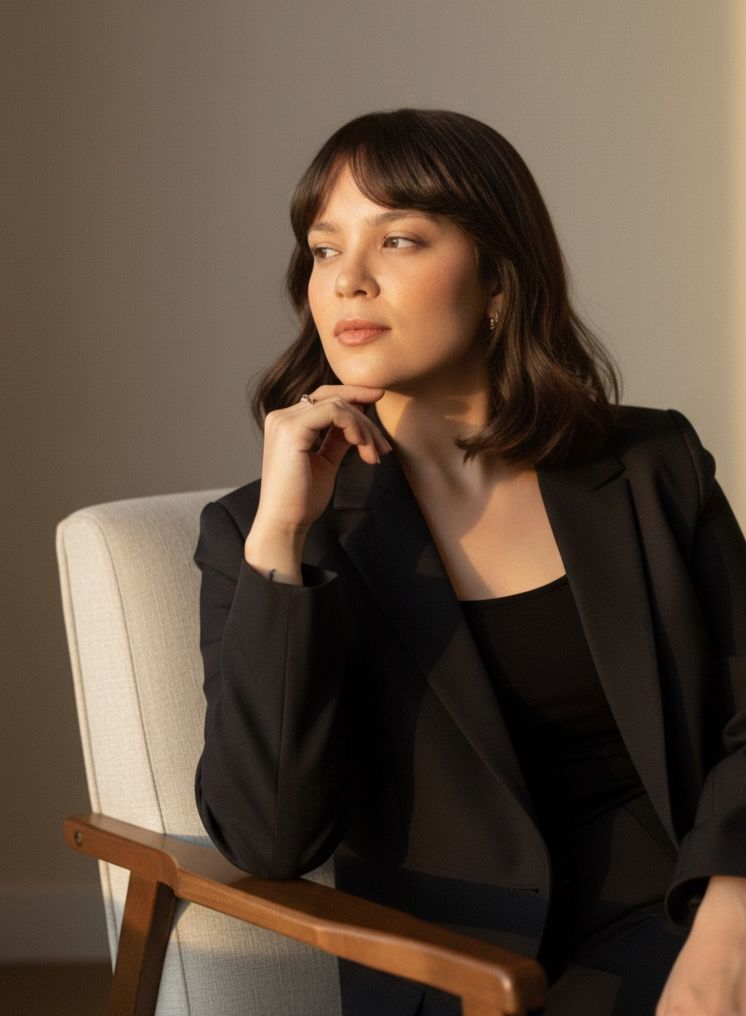
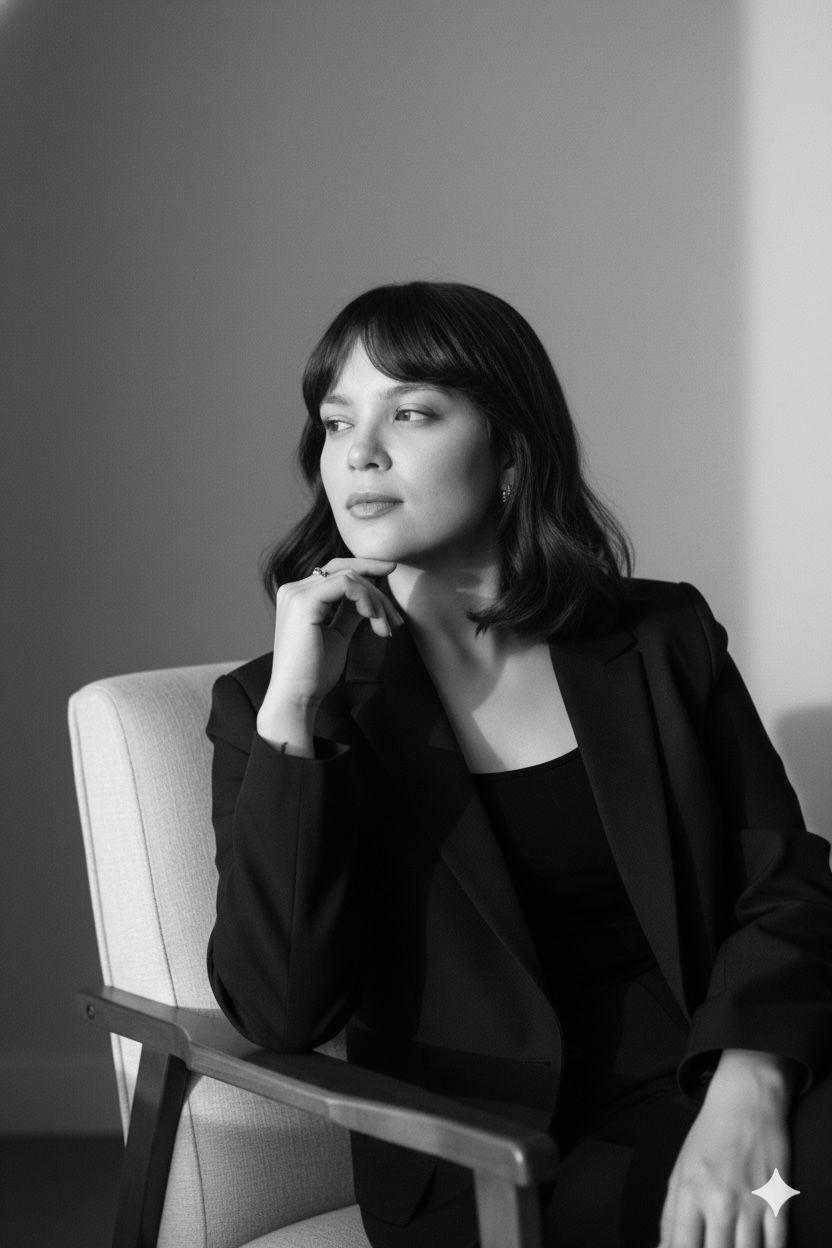
Atualização pagina inicial

diff --git a/index.html b/index.html
@@ -358,17 +358,16 @@
     /* Card body */
     .card-body {
       flex: 1;
-      display: grid;
-      grid-template-columns: 1fr auto;
-      grid-template-rows: auto auto auto;
-      gap: 0;
+      display: flex;
+      flex-direction: column;
+      justify-content: center;
       padding: clamp(20px, 5vw, 26px) clamp(18px, 4.5vw, 24px);
-      align-items: start;
+      /* Keep text in the left half — never overlap the image */
+      max-width: 52%;
+      z-index: 1;
     }
 
     .card-label {
-      grid-column: 1;
-      grid-row: 1;
       font-family: var(--sans);
       font-size: clamp(9px, 2vw, 10px);
       font-weight: 400;
@@ -378,41 +377,43 @@
       margin-bottom: 6px;
     }
 
+    /* Arrow positioned absolutely over the image area, near right edge, centered vertically */
     .card-arrow {
-      grid-column: 2;
-      grid-row: 1 / 3;
-      align-self: center;
-      margin-left: 16px;
-      width: 34px;
-      height: 34px;
+      position: absolute;
+      right: 14px;
+      top: 50%;
+      transform: translateY(-50%);
+      width: 40px;
+      height: 40px;
       border-radius: 50%;
-      border: 1px solid var(--border);
-      background: var(--surface);
+      border: 1.5px solid rgba(255,255,255,0.45);
+      background: var(--stripe-color, var(--copper-light));
+      backdrop-filter: blur(4px);
+      -webkit-backdrop-filter: blur(4px);
       display: flex;
       align-items: center;
       justify-content: center;
       flex-shrink: 0;
-      transition: background 0.28s var(--ease), border-color 0.28s var(--ease), transform 0.28s var(--ease);
+      z-index: 2;
+      transition: background 0.28s var(--ease), border-color 0.28s var(--ease), transform 0.28s var(--ease), filter 0.28s var(--ease);
     }
     .product-card:hover .card-arrow {
-      background: var(--stripe-color, var(--copper-light));
-      border-color: transparent;
-      transform: translateX(2px);
+      filter: brightness(1.15);
+      border-color: rgba(255,255,255,0.7);
+      transform: translateY(-50%) translateX(3px);
     }
     .product-card:hover .card-arrow svg { stroke: #fff; }
     .card-arrow svg {
-      width: 13px; height: 13px;
-      stroke: var(--ink-soft);
+      width: 16px; height: 16px;
+      stroke: #fff;
       fill: none;
-      stroke-width: 1.8;
+      stroke-width: 2;
       stroke-linecap: round;
       stroke-linejoin: round;
       transition: stroke 0.28s var(--ease);
     }
 
     .card-title {
-      grid-column: 1;
-      grid-row: 2;
       font-family: var(--serif);
       font-size: clamp(22px, 5.5vw, 27px);
       font-weight: 400;
@@ -424,8 +425,6 @@
     .card-title em { font-style: italic; color: var(--copper); }
 
     .card-desc {
-      grid-column: 1 / 3;
-      grid-row: 3;
       font-family: var(--sans);
       font-size: clamp(13px, 3.2vw, 14px);
       font-weight: 300;
@@ -465,9 +464,10 @@
       letter-spacing: 0.18em;
       text-transform: uppercase;
       color: #fff;
-      background: var(--copper);
+      background: #7a3a10;
       padding: 5px 13px;
       border-radius: 0 var(--radius) 0 var(--radius);
+      z-index: 3;
     }
 
     /* ══════════════════════════════════════════
@@ -531,6 +531,63 @@
       margin: 0 auto;
     }
 
+
+    /* ══ CARD BACKGROUND IMAGES ══ */
+    .card-img {
+      position: absolute;
+      top: 0; right: 0;
+      width: 50%;
+      height: 100%;
+      object-fit: cover;
+      object-position: center;
+      border-radius: 0 var(--radius) var(--radius) 0;
+      opacity: 0.55;
+      /* Fade left → transparent, stronger fade to ensure clean split */
+      -webkit-mask-image: linear-gradient(to right, transparent 0%, rgba(0,0,0,0.6) 30%, rgba(0,0,0,1) 65%);
+      mask-image: linear-gradient(to right, transparent 0%, rgba(0,0,0,0.6) 30%, rgba(0,0,0,1) 65%);
+      pointer-events: none;
+      user-select: none;
+    }
+
+    /* ══ CONTACT ICONS ══ */
+    .contact-row {
+      display: flex;
+      justify-content: center;
+      align-items: center;
+      gap: 28px;
+      margin-top: clamp(48px, 10vw, 68px);
+    }
+    .contact-link {
+      display: flex;
+      flex-direction: column;
+      align-items: center;
+      gap: 8px;
+      color: var(--ink-soft);
+      transition: color 0.28s var(--ease), transform 0.28s var(--ease);
+      text-decoration: none;
+    }
+    .contact-link:hover { color: var(--copper); transform: translateY(-3px); }
+    .contact-icon {
+      width: 52px; height: 52px;
+      border-radius: 50%;
+      border: 1px solid var(--border);
+      background: var(--card-bg);
+      display: flex; align-items: center; justify-content: center;
+      box-shadow: 0 2px 10px rgba(100,60,30,0.07);
+      transition: border-color 0.28s var(--ease), box-shadow 0.28s var(--ease);
+    }
+    .contact-link:hover .contact-icon {
+      border-color: var(--border-strong);
+      box-shadow: 0 6px 20px rgba(100,60,30,0.12);
+    }
+    .contact-icon svg { width: 22px; height: 22px; }
+    .contact-label {
+      font-family: var(--sans);
+      font-size: 10px;
+      font-weight: 400;
+      letter-spacing: 0.18em;
+      text-transform: uppercase;
+    }
     /* ══════════════════════════════════════════
        RESPONSIVE
     ══════════════════════════════════════════ */
@@ -550,17 +607,16 @@
         <div class="avatar-wrap">
           <img
             class="avatar-img"
-            src="https://nicolecarvalhoestetica.com/foto-nicole.jpg"
+            src="fotos/Minhafoto.jpeg"
             alt="Nicole Carvalho — Biomédica Esteta especialista em estética integrativa e avançada"
             width="192" height="192"
-            onerror="this.style.display='none'; this.nextElementSibling.style.display='flex';"
           />
           <div class="avatar-fallback" style="display:none;" aria-hidden="true">NC</div>
         </div>
 
         <h1 class="hero-name"><em>Nicole</em> Carvalho</h1>
-        <span class="hero-credential">Biomédica  &nbsp;·&nbsp; CRBM 26343</span>
-        <p class="hero-tagline">  Estética Integrativa e Regenerativa </p>
+        <span class="hero-credential">Biomédica Esteta &nbsp;·&nbsp; CRBM 26343</span>
+        <p class="hero-tagline">Especialista em Estética Integrativa e Avançada</p>
 
       </section>
     </header>
@@ -578,19 +634,19 @@
           <a
             class="product-card card--copper card--featured reveal"
             href="https://nicolecarvalhoestetica.com/melancode"
-            target="_blank" rel="noopener"
             aria-label="MelanCode — Protocolo integrativo para tratamento do melasma"
             role="listitem"
           >
             <span class="card-badge">Produto Principal</span>
             <div class="card-stripe" aria-hidden="true"></div>
+            <img class="card-img" src="fotos/FOTO MELASMA.jpg" alt="" aria-hidden="true" />
             <div class="card-body">
               <span class="card-label">Protocolo em Destaque</span>
               <div class="card-arrow" aria-hidden="true">
                 <svg viewBox="0 0 24 24"><path d="M5 12h14M12 5l7 7-7 7"/></svg>
               </div>
               <h2 class="card-title"><em>MelanCode</em></h2>
-              <p class="card-desc">Protocolo Integrativo para tratamento do melasma de dentro para fora</p>
+              <p class="card-desc">Protocolo integrativo <br> para tratamento do <br>melasma de dentro <br> para fora.</p>
             </div>
           </a>
 
@@ -598,18 +654,18 @@
           <a
             class="product-card card--sage reveal"
             href="https://nicolecarvalhoestetica.com/desinflamacao"
-            target="_blank" rel="noopener"
             aria-label="Desinflamação — Protocolo para redução da inflamação sistêmica"
             role="listitem"
           >
             <div class="card-stripe" aria-hidden="true"></div>
+            <img class="card-img" src="fotos/FDOTO DESINFLAMAÇÃO.jpg" alt="" aria-hidden="true" />
             <div class="card-body">
-              <span class="card-label">Reset90</span>
+              <span class="card-label">Protocolo</span>
               <div class="card-arrow" aria-hidden="true">
                 <svg viewBox="0 0 24 24"><path d="M5 12h14M12 5l7 7-7 7"/></svg>
               </div>
-              <h2 class="card-title"><em> Protocolo de Desinflamação </em></h2>
-              <p class="card-desc">Estratégias focadas na redução da inflamação sistêmica para promover mais saúde, equilíbrio e qualidade da pele</p>
+              <h2 class="card-title"><em>Desinflamação</em></h2>
+              <p class="card-desc">Protocolo para redução <br>da inflamação sistêmica <br> que impacta diretamente <br> a saúde da pele.</p>
             </div>
           </a>
 
@@ -617,18 +673,18 @@
           <a
             class="product-card card--sand reveal"
             href="https://nicolecarvalhoestetica.com/estrias"
-            target="_blank" rel="noopener"
             aria-label="Estrias — Protocolo regenerativo para melhora da pele com estrias"
             role="listitem"
           >
             <div class="card-stripe" aria-hidden="true"></div>
+            <img class="card-img" src="fotos/FOTO ESTRIAS.jpg" alt="" aria-hidden="true" />
             <div class="card-body">
-              <span class="card-label">indérmis</span>
+              <span class="card-label">Protocolo</span>
               <div class="card-arrow" aria-hidden="true">
                 <svg viewBox="0 0 24 24"><path d="M5 12h14M12 5l7 7-7 7"/></svg>
               </div>
               <h2 class="card-title"><em>Estrias</em></h2>
-              <p class="card-desc">Tratamento Regenerativo para Estrias</p>
+              <p class="card-desc">Protocolo regenerativo <br>para melhora da <br>aparência e qualidade <br> da pele com estrias.</p>
             </div>
           </a>
 
@@ -636,23 +692,48 @@
           <a
             class="product-card card--blush reveal"
             href="https://nicolecarvalhoestetica.com/proskin"
-            target="_blank" rel="noopener"
             aria-label="ProSkin — E-book exclusivo para prevenção de estrias na gestação"
             role="listitem"
           >
             <div class="card-stripe" aria-hidden="true"></div>
+            <img class="card-img" src="fotos/ebook.jpeg" alt="" aria-hidden="true" />
             <div class="card-body">
-              <span class="card-label">E-book exclusivo</span>
+              <span class="card-label">E-book</span>
               <div class="card-arrow" aria-hidden="true">
                 <svg viewBox="0 0 24 24"><path d="M5 12h14M12 5l7 7-7 7"/></svg>
               </div>
-              <h2 class="card-title"><em>ProSkin - Ritual Materno</em></h2>
-              <p class="card-desc">Guia prático para prevenção real de estrias durante a gestação</p>
+              <h2 class="card-title"><em>ProSkin</em></h2>
+              <p class="card-desc">E-book exclusivo para <br> prevenção de estrias<br> durante a gestação.</p>
             </div>
           </a>
 
         </div>
       </section>
+
+      <!-- CONTACT -->
+      <div class="contact-row reveal" aria-label="Redes sociais e contato">
+
+        <a class="contact-link" href="https://www.instagram.com/dranicolecarvalho.estetica?igsh=aHpjNjdsNTl6M3F3&utm_source=qr" target="_blank" rel="noopener" aria-label="Instagram de Nicole Carvalho">
+          <div class="contact-icon">
+            <svg viewBox="0 0 24 24" fill="none" stroke="currentColor" stroke-width="1.6" stroke-linecap="round" stroke-linejoin="round">
+              <rect x="2" y="2" width="20" height="20" rx="5" ry="5"/>
+              <circle cx="12" cy="12" r="4"/>
+              <circle cx="17.5" cy="6.5" r="0.8" fill="currentColor" stroke="none"/>
+            </svg>
+          </div>
+          <span class="contact-label">Instagram</span>
+        </a>
+
+        <a class="contact-link" href="https://wa.me/message/SBPULBCTHU4VC1" target="_blank" rel="noopener" aria-label="WhatsApp de Nicole Carvalho">
+          <div class="contact-icon">
+            <svg viewBox="0 0 24 24" fill="currentColor">
+              <path d="M17.472 14.382c-.297-.149-1.758-.867-2.03-.967-.273-.099-.471-.148-.67.15-.197.297-.767.966-.94 1.164-.173.199-.347.223-.644.075-.297-.15-1.255-.463-2.39-1.475-.883-.788-1.48-1.761-1.653-2.059-.173-.297-.018-.458.13-.606.134-.133.298-.347.446-.52.149-.174.198-.298.298-.497.099-.198.05-.371-.025-.52-.075-.149-.669-1.612-.916-2.207-.242-.579-.487-.5-.669-.51-.173-.008-.371-.01-.57-.01-.198 0-.52.074-.792.372-.272.297-1.04 1.016-1.04 2.479 0 1.462 1.065 2.875 1.213 3.074.149.198 2.096 3.2 5.077 4.487.709.306 1.262.489 1.694.625.712.227 1.36.195 1.871.118.571-.085 1.758-.719 2.006-1.413.248-.694.248-1.289.173-1.413-.074-.124-.272-.198-.57-.347m-5.421 7.403h-.004a9.87 9.87 0 01-5.031-1.378l-.361-.214-3.741.982.998-3.648-.235-.374a9.86 9.86 0 01-1.51-5.26c.001-5.45 4.436-9.884 9.888-9.884 2.64 0 5.122 1.03 6.988 2.898a9.825 9.825 0 012.893 6.994c-.003 5.45-4.437 9.884-9.885 9.884m8.413-18.297A11.815 11.815 0 0012.05 0C5.495 0 .16 5.335.157 11.892c0 2.096.547 4.142 1.588 5.945L.057 24l6.305-1.654a11.882 11.882 0 005.683 1.448h.005c6.554 0 11.89-5.335 11.893-11.893a11.821 11.821 0 00-3.48-8.413z"/>
+            </svg>
+          </div>
+          <span class="contact-label">WhatsApp</span>
+        </a>
+
+      </div>
     </main>
 
     <!-- ══ FOOTER ══════════════════════════════ -->
